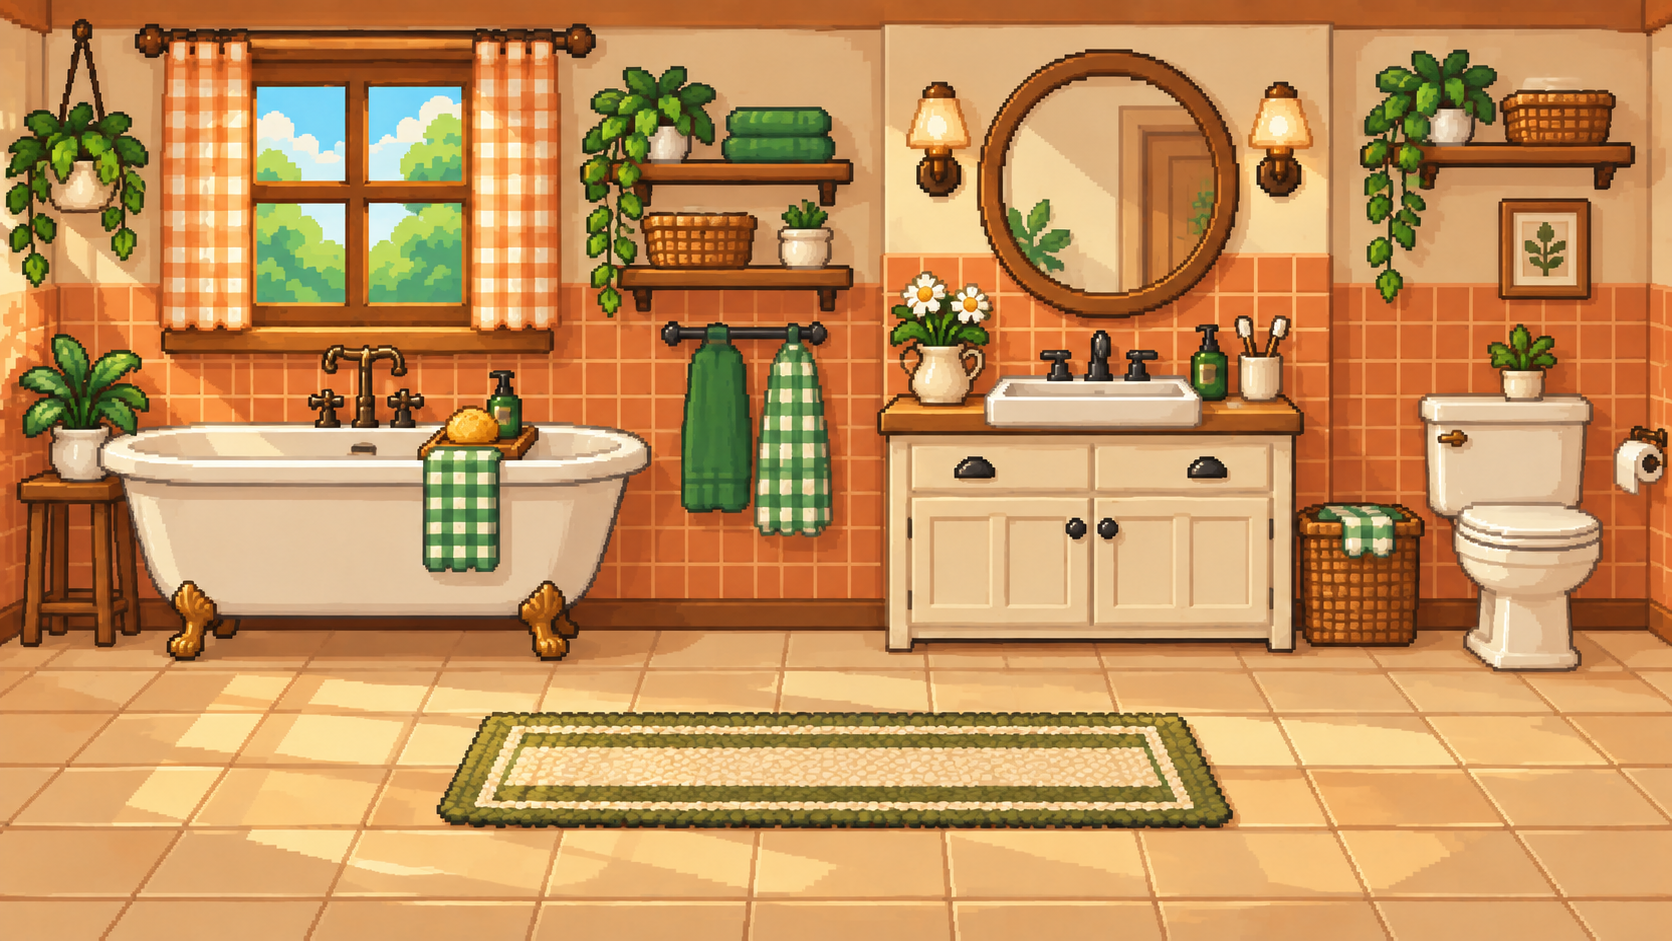
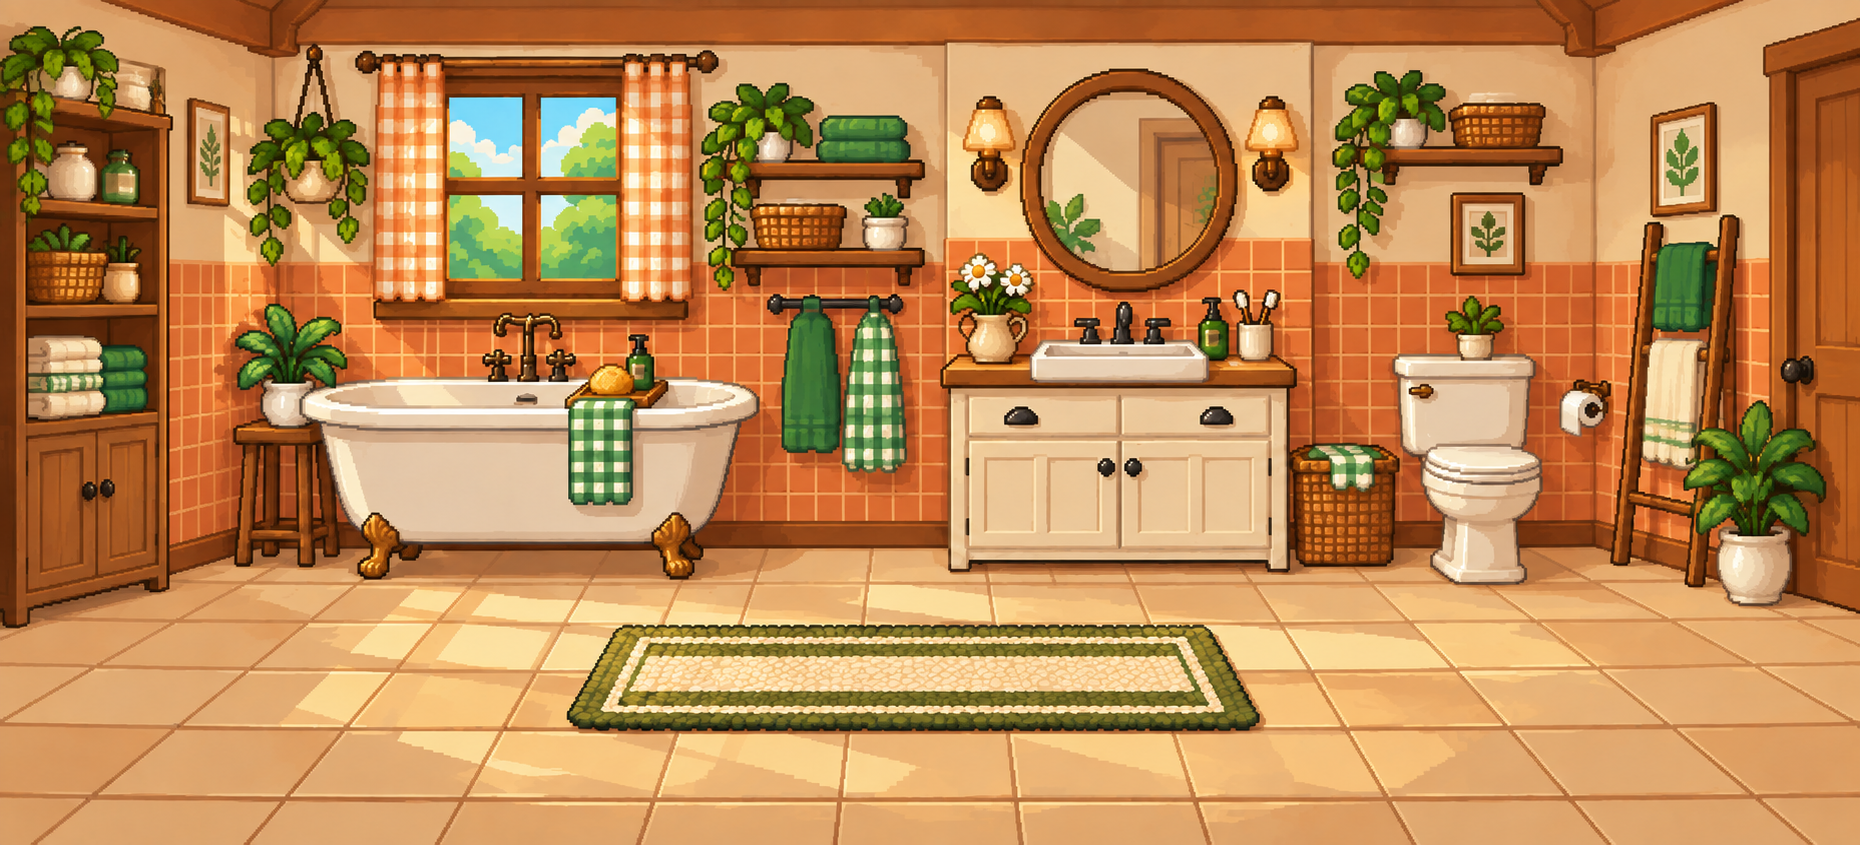
change background

diff --git a/src/pet/internal/PetRoom.tsx b/src/pet/internal/PetRoom.tsx
@@ -639,28 +639,6 @@ export const PetRoom: React.FC<PetRoomProps> = ({ onNavigateToGame, extraGames }
       onPointerLeave={handleAppPointerUp}
     >
       <img
-        data-room-background="fill"
-        src={ROOM_BACKGROUNDS[currentRoom]}
-        alt=""
-        aria-hidden="true"
-        draggable={false}
-        style={{
-          position: 'absolute',
-          inset: 0,
-          width: '100%',
-          height: '100%',
-          objectFit: 'cover',
-          objectPosition: 'center center',
-          filter: 'blur(24px) saturate(0.9)',
-          transform: 'scale(1.06)',
-          opacity: 0.88,
-          pointerEvents: 'none',
-          userSelect: 'none',
-          zIndex: -2,
-        }}
-      />
-
-      <img
         data-room-background="scene"
         src={ROOM_BACKGROUNDS[currentRoom]}
         alt=""
@@ -671,7 +649,7 @@ export const PetRoom: React.FC<PetRoomProps> = ({ onNavigateToGame, extraGames }
           inset: 0,
           width: '100%',
           height: '100%',
-          objectFit: 'contain',
+          objectFit: 'fill',
           objectPosition: 'center center',
           imageRendering: 'pixelated',
           pointerEvents: 'none',
